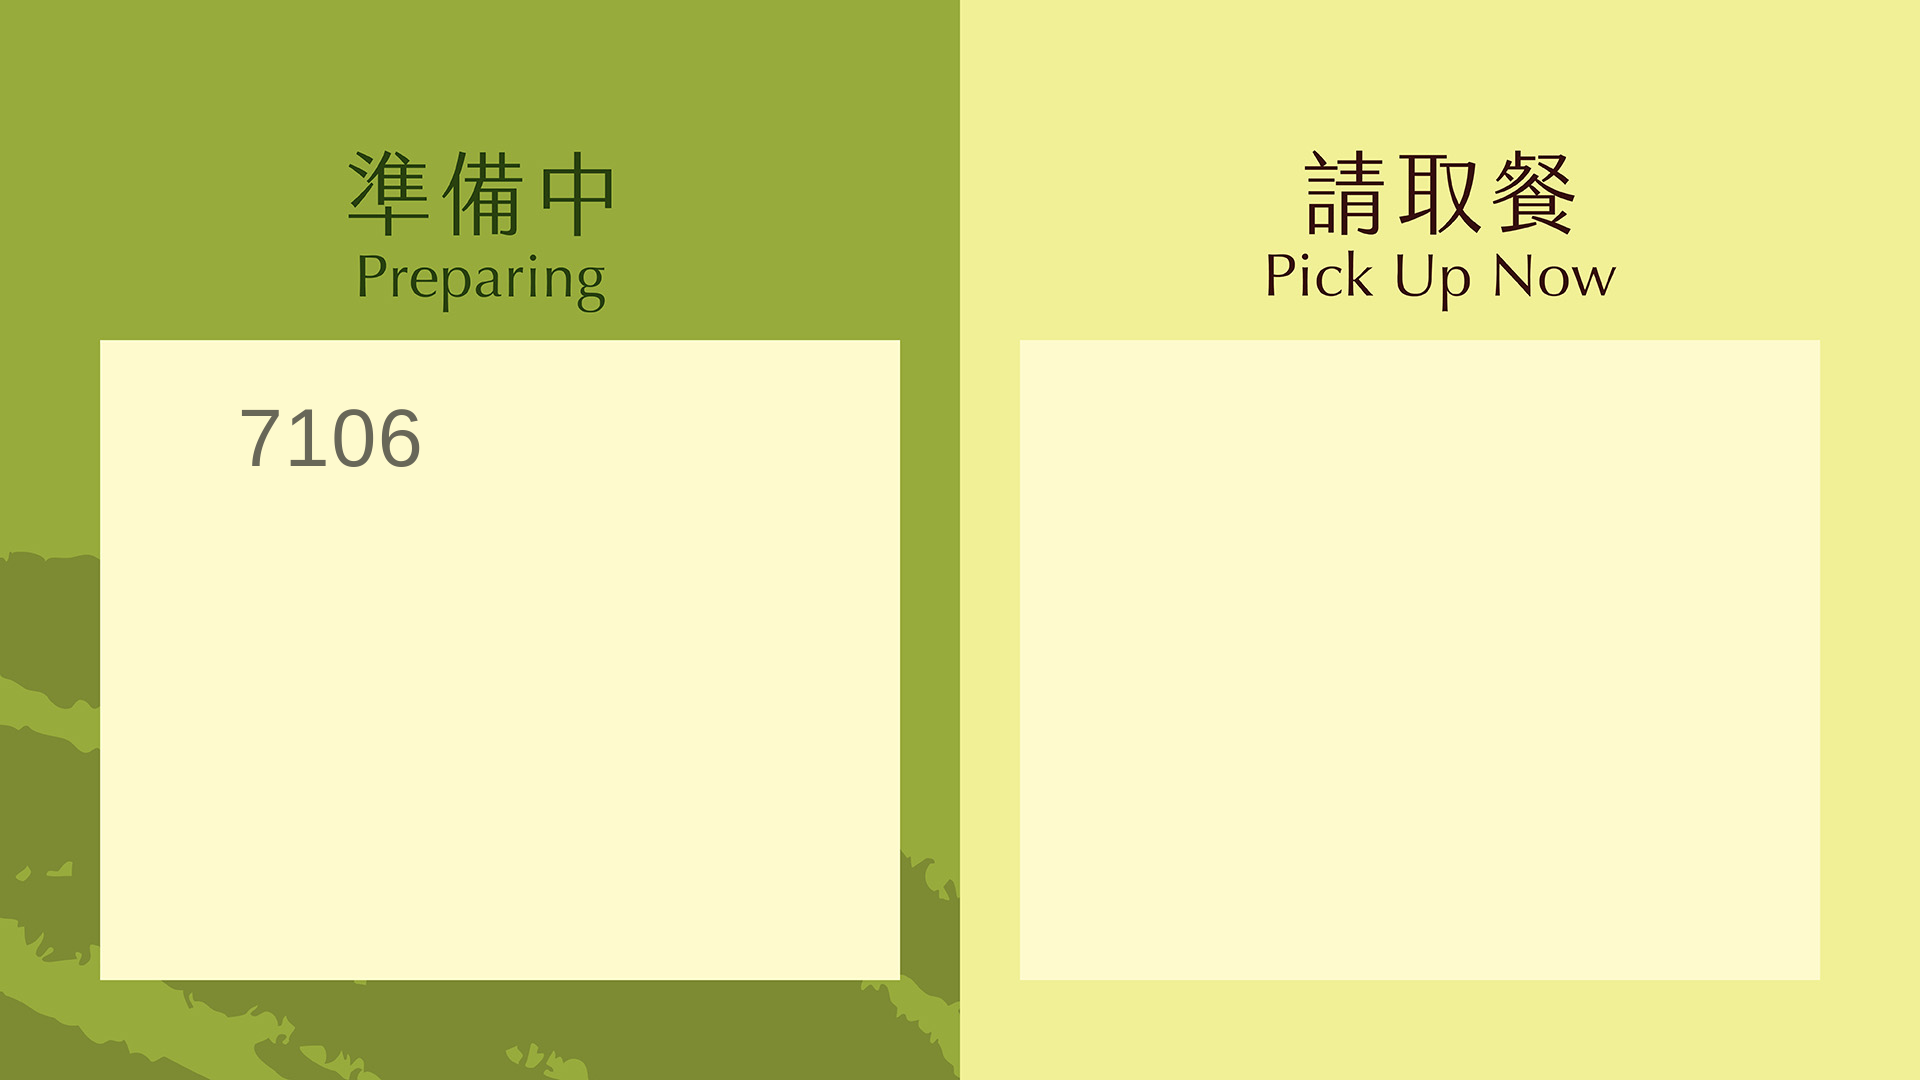
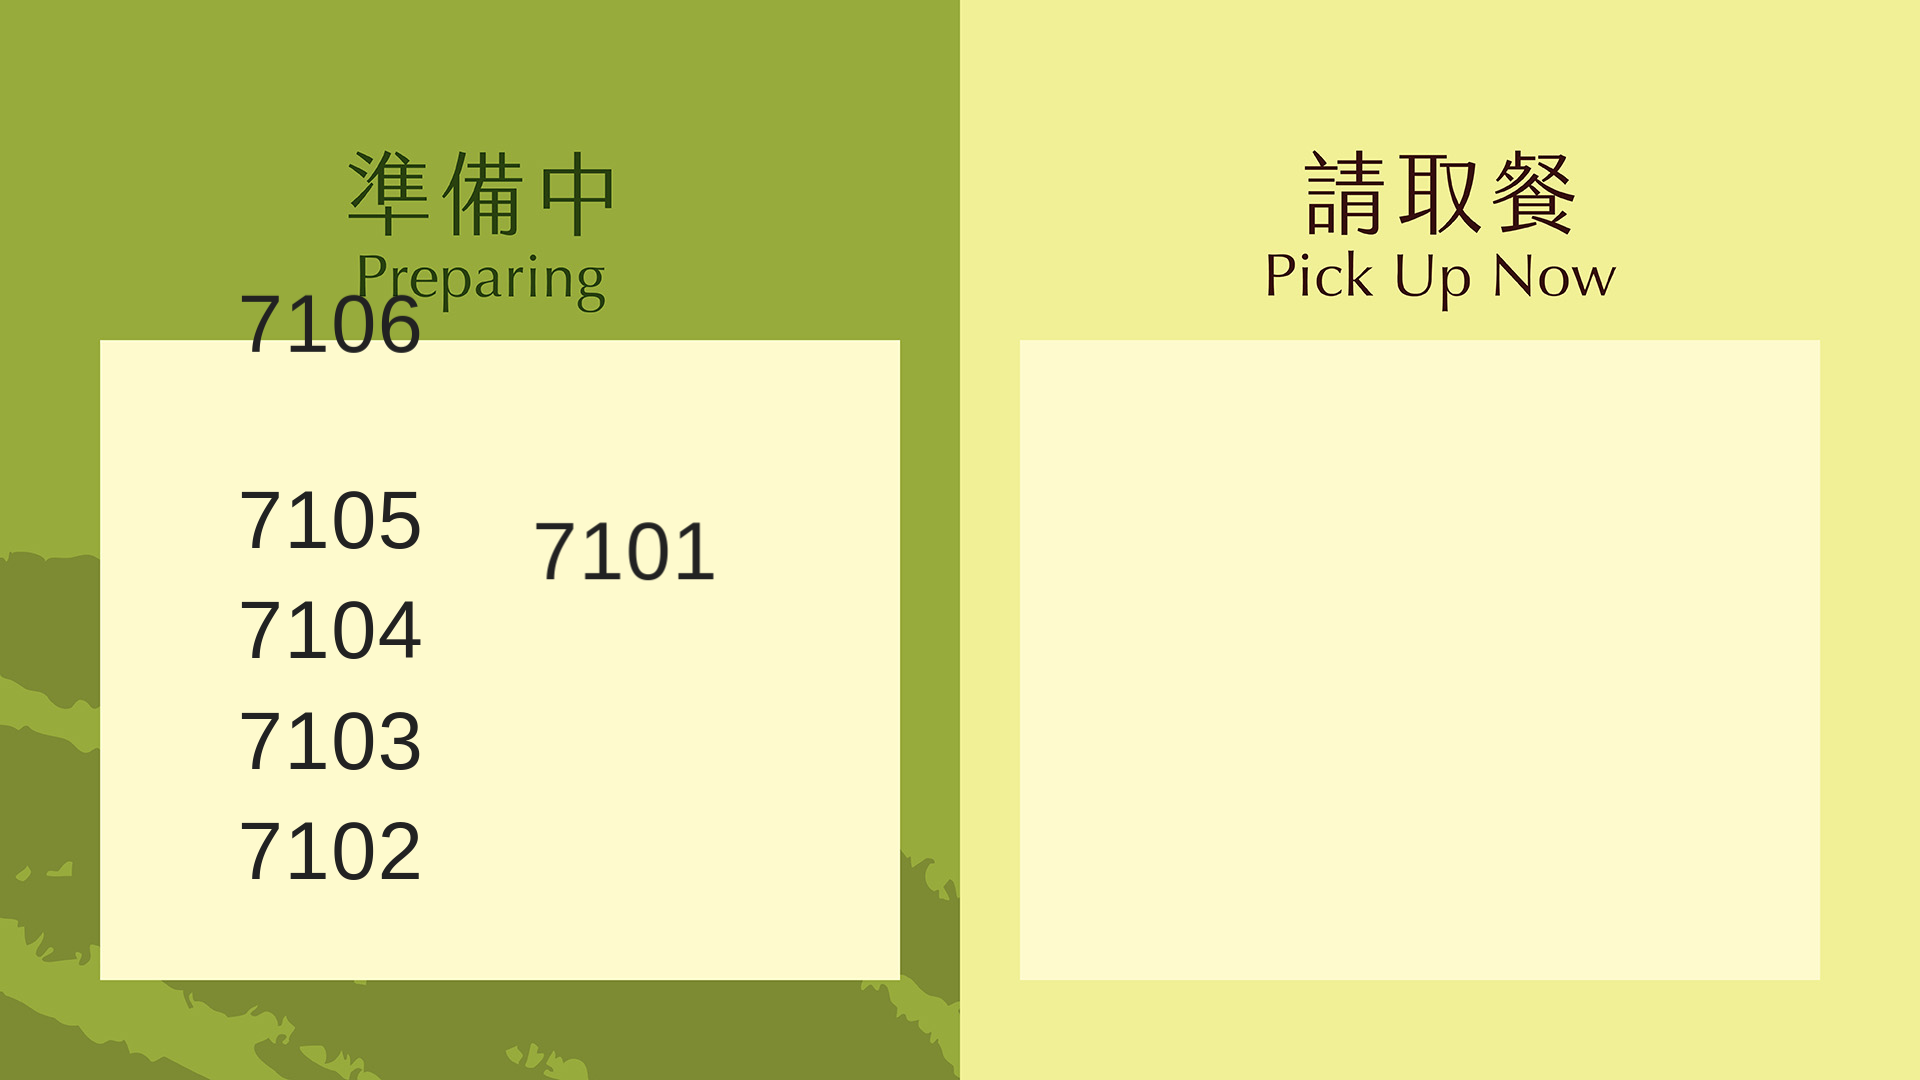
fix(board): column-move plan for newest-first 5→6 and opacity settle
Detect sixth-on-page by visible count (5→6) instead of enter slot 5 so
prep queues ordered newest-first (#43) activate column-move animation.

Snap opacity for hold chips during column-move and settle all in-cell chips
after the move. E2e motion samples target queue numbers; unit test covers
enterSlot 0.

diff --git a/js/board/milksha-board-anim.js b/js/board/milksha-board-anim.js
@@ -414,7 +414,7 @@
       }
       return null;
     }
-    if (prevN === 5 && enterSlot === GRID_ROWS) {
+    if (prevN === 5 && nextN === 6) {
       return {
         kind: 'sixth-on-page',
         addedId: addedId,
@@ -1042,6 +1042,8 @@
             snapOpacity(chip, 1);
             const pitchIn = estimateRowPitchPx(slot, numbersLayer);
             promises.push(animateColumnMoveEnterFromAbove(chip, pitchIn, columnMoveDurationMs, gen, getGeneration));
+          } else if (columnMovePlan) {
+            snapOpacity(chip, 1);
           } else if (zoneKey === 'ready' && scalePulseSet[id] && !skipReadyScale) {
             promises.push(runReadyPulseAnim(chip, numbersLayer, gen));
           } else {
@@ -1051,6 +1053,20 @@
       }
 
       const afterLayout = function () {
+        if (columnMovePlan) {
+          removeOrphanLayerFloatChips(numbersLayer);
+          const holdChips = numbersLayer.querySelectorAll(
+            '.milksha-num-cell .milksha-board-chip:not(.milksha-board-chip--layer-float)',
+          );
+          for (let hi = 0; hi < holdChips.length; hi += 1) {
+            const holdChip = holdChips[hi];
+            const holdId = holdChip.getAttribute('data-item-id');
+            if (pendingRemove.has(holdChip) || (holdId && columnMoveEnterFromAboveIds[holdId])) {
+              continue;
+            }
+            snapOpacity(holdChip, 1);
+          }
+        }
         diff.moved.forEach(function (mv) {
           if (columnMoveSkipFlipIds[mv.id]) {
             return;
@@ -1096,21 +1112,16 @@
                     clone.parentNode.removeChild(clone);
                   }
                 }
-                for (let si = 0; si < deps.pageSize; si += 1) {
-                  const cellSettle = cells[si];
-                  const slotSettle = slotEls[si];
-                  if (!cellSettle || !cellSettle.id || !slotSettle) {
+                const inCellChips = numbersLayer.querySelectorAll(
+                  '.milksha-num-cell .milksha-board-chip:not(.milksha-board-chip--layer-float)',
+                );
+                for (let si = 0; si < inCellChips.length; si += 1) {
+                  const settled = inCellChips[si];
+                  if (pendingRemove.has(settled)) {
                     continue;
                   }
-                  const settled = slotSettle.querySelector(
-                    '.milksha-board-chip[data-item-id="' + cellSettle.id + '"]',
-                  );
-                  if (settled && !pendingRemove.has(settled)) {
-                    snapOpacity(settled, 1);
-                    if (!settled.classList.contains('milksha-board-chip--layer-float')) {
-                      settled.style.transform = '';
-                    }
-                  }
+                  snapOpacity(settled, 1);
+                  settled.style.transform = '';
                 }
                 if (numbersLayer.getAttribute('data-column-move-anim') === '1') {
                   numbersLayer.removeAttribute('data-column-move-anim');

diff --git a/tests/column-move-plan.test.js b/tests/column-move-plan.test.js
@@ -46,7 +46,16 @@ test('detectColumnMovePlan sixth-on-page', function () {
   const plan = Anim.detectColumnMovePlan(prev, next, 0, 10, layoutPageGrid, diff);
   assert.equal(plan.kind, 'sixth-on-page');
   assert.equal(plan.enterSlot, 5);
-  assert.equal(plan.leftBottomSlot, 4);
+  const prevNewestFirst = [];
+  for (let i = 5; i >= 1; i -= 1) {
+    prevNewestFirst.push({ id: 'store:' + (1000 + i), number: String(1000 + i) });
+  }
+  const nextNewestFirst = [{ id: 'store:1006', number: '1006' }].concat(prevNewestFirst);
+  const diff2 = Anim.diffVisibleSlots(prevNewestFirst, nextNewestFirst, 0, 0, 10, layoutPageGrid);
+  const plan2 = Anim.detectColumnMovePlan(prevNewestFirst, nextNewestFirst, 0, 10, layoutPageGrid, diff2);
+  assert.equal(plan2.kind, 'sixth-on-page');
+  assert.equal(plan2.enterSlot, 0);
+  assert.equal(plan2.leftBottomSlot, 4);
 });
 
 test('detectColumnMovePlan right-bottom page two overflow', function () {

diff --git a/artifacts/column-move/REPORT.md b/artifacts/column-move/REPORT.md
@@ -1,8 +1,8 @@
 # Column-move animation — delivery report
 
 **Branch:** `cursor/column-move-animation-a2ca`  
-**Base:** `main` @ `f9d0513` (#43 merged 2026-10-11 08:15 Taipei) — branch rebased onto this tip  
-**HEAD:** `5726164`  
+**Base:** `main` @ `b24cd2d` (includes #43 `f9d0513` newest-first board partition)  
+**HEAD:** `6a88b97`  
 **PR:** https://github.com/UltronService/milksha-demo/pull/46 (draft)  
 **Boundary:** `artifacts/column-move/TEST-BOUNDARY.md` (owner approved 2026-10-11 08:09; item 3 = prep **and** ready)
 
@@ -11,7 +11,7 @@
 | # | Behaviour | Evidence |
 |---|-----------|----------|
 | 1 | Prep: left column bottom slides down/out on 6th | `tests/e2e/board-column-move.spec.mjs` + exit clone motion samples |
-| 2 | Prep: 6th enters right top from above | e2e motion samples (top delta / transform) |
+| 2 | Prep: 6th enters right top from above | e2e motion samples via `chipMotionSampleForNumber` |
 | 3 | **Prep and ready:** right bottom vacates (page-2 overflow) | e2e tests 3 (both zones) |
 | 4–5 | Ready: mirror of 1–2 | e2e tests 4–5 |
 | 6 | Transform + opacity only during move window | e2e test 6 |
@@ -19,27 +19,28 @@
 | 8 | Settled numbers match layout queue / `layoutPageGrid` | e2e test 8 + `layoutQueueNumbers` |
 | 9–10 | 1080p / 4K contact sheets | `artifacts/column-move/screenshots/column-move-prep-1080p.png`, `column-move-prep-4k.png` |
 
-**Unit:** `tests/column-move-plan.test.js` (`detectColumnMovePlan` sixth-on-page).
+**Unit:** `tests/column-move-plan.test.js` (`detectColumnMovePlan` sixth-on-page, including newest-first `enterSlot === 0`).
 
 ## Implementation notes
 
 - Isolated helpers in `js/board/milksha-board-anim.js`: `detectColumnMovePlan`, `animateColumnMoveSlideDownOut`, `animateColumnMoveEnterFromAbove` (no edits to ready-pulse / fade-in paths).
+- Sixth-on-page detection uses **visible count 5→6** (not fixed slot 5) so newest-first prep queues (#43) trigger column-move.
 - Exit motion uses **layer clones** so in-cell chips stay intact (#39 one-chip-per-cell).
-- Post-move settle runs **only when `columnMovePlan` is active** (`a0c5ce3` — avoids clearing ready 1.3× pulse transforms on every sync).
+- Post-move settle runs **only when `columnMovePlan` is active** — avoids clearing ready 1.3× pulse transforms on every sync.
 - Config: `columnMoveMs` (default 300) in `milksha-board-anim-config.js` (`animColumnMove` URL param).
 - **Stores:** local fake-cloud e2e only; no `zz-qa-store-a`.
 
-## Local verification (post-rebase on `f9d0513`)
+## Local verification
 
 ```text
 npm test → 195 pass
-npx playwright test tests/e2e/board-column-move.spec.mjs → 10/10 pass (pre-rebase run; re-run after push if needed)
+npx playwright test tests/e2e/board-column-move.spec.mjs → 10/10 pass
 ```
 
 ## CI
 
-- Pre-rebase failure (ready pulse 4K): https://github.com/UltronService/milksha-demo/actions/runs/38101999641 — fixed in `a0c5ce3`.
-- Post-rebase run: pending after `git push --force-with-lease` of rebased branch.
+- Prior failure (opacity / plan on #43 order): https://github.com/UltronService/milksha-demo/actions/runs/38105816755
+- Latest run: _(after push on `6a88b97`)_
 
 ## Contact sheets
 
